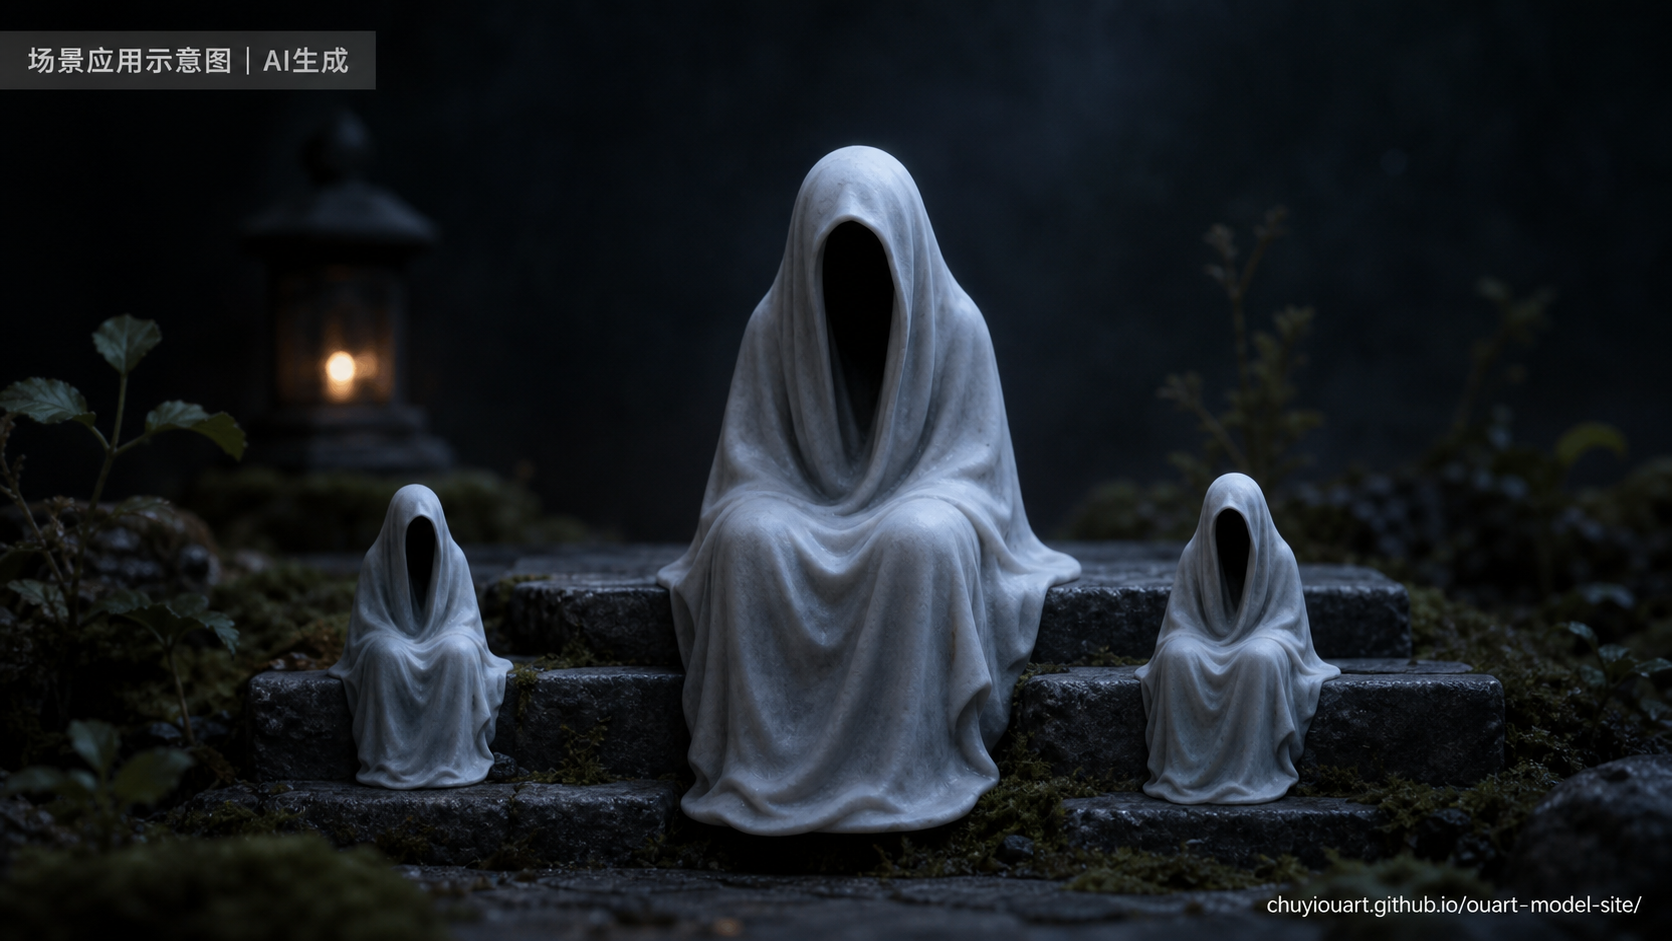
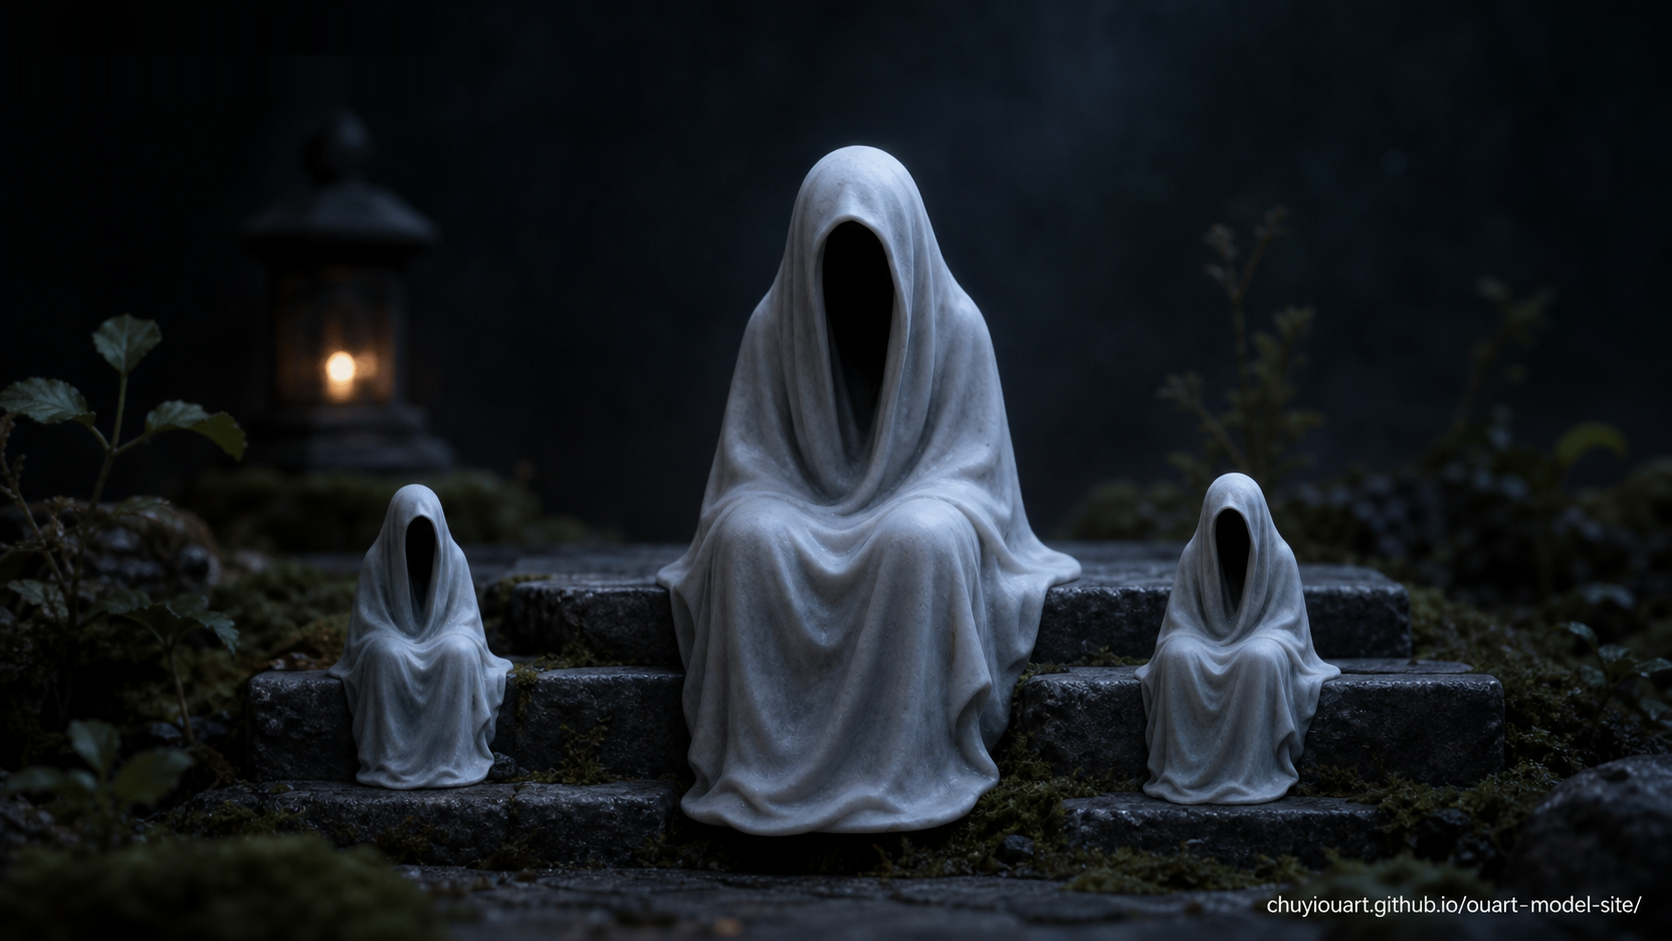
Polish Sitting Ghost detail layout and gallery

Changed region(s): [[0.0, 0.0308, 0.2488, 0.0925]]

diff --git a/site.js b/site.js
@@ -129,9 +129,12 @@
       image.src = item.src;
       image.alt = item.alt;
       image.loading = "lazy";
-      const caption = document.createElement("figcaption");
-      caption.textContent = item.label || "场景应用示意图｜AI生成";
-      figure.append(image, caption);
+      figure.appendChild(image);
+      if (item.label) {
+        const caption = document.createElement("figcaption");
+        caption.textContent = item.label;
+        figure.appendChild(caption);
+      }
       root.appendChild(figure);
     });
     section.hidden = false;

diff --git a/data/models.js b/data/models.js
@@ -65,17 +65,17 @@ window.OUART_MODELS = [
       {
         "src": "./assets/models/sitting-ghost/scene-bookshelf.png",
         "alt": "三个不同大小的Sitting Ghost模型错落摆放在深色书架边缘",
-        "label": "场景应用示意图｜AI生成"
+        "label": "书架组合陈列示意"
       },
       {
         "src": "./assets/models/sitting-ghost/scene-paint-variants.png",
         "alt": "石膏白、旧石灰青苔和炭黑干扫三种Sitting Ghost涂装示意",
-        "label": "场景应用示意图｜AI生成"
+        "label": "三种涂装方向示意"
       },
       {
         "src": "./assets/models/sitting-ghost/scene-halloween-diorama.png",
         "alt": "Sitting Ghost模型用于暗色台阶与植物微缩场景的陈列示意",
-        "label": "场景应用示意图｜AI生成"
+        "label": "暗色台阶与植物场景示意"
       }
     ],
     "authorLicense": {

diff --git a/styles.css b/styles.css
@@ -125,6 +125,7 @@ main { width: min(100%, var(--max)); margin: 0 auto; padding-inline: var(--gutte
 .model-sections[hidden], .model-gallery[hidden], .author-license[hidden] { display: none; }
 .model-sections { margin-top: clamp(48px, 6vw, 82px); display: grid; grid-template-columns: repeat(2, minmax(0, 1fr)); gap: 1px; background: var(--line); border: 1px solid var(--line); }
 .model-section { padding: clamp(26px, 3.2vw, 42px); background: #fff; }
+.model-section:last-child:nth-child(odd) { grid-column: 1 / -1; }
 .model-section h2, .model-gallery h2, .author-license h2 { margin: 0; padding-left: 14px; border-left: 4px solid var(--accent); font-size: clamp(22px, 2.2vw, 30px); letter-spacing: -.025em; }
 .model-section p { margin: 18px 0 0; color: #444; font-size: 16px; line-height: 1.86; }
 .model-gallery, .author-license { margin-top: clamp(48px, 6vw, 82px); }